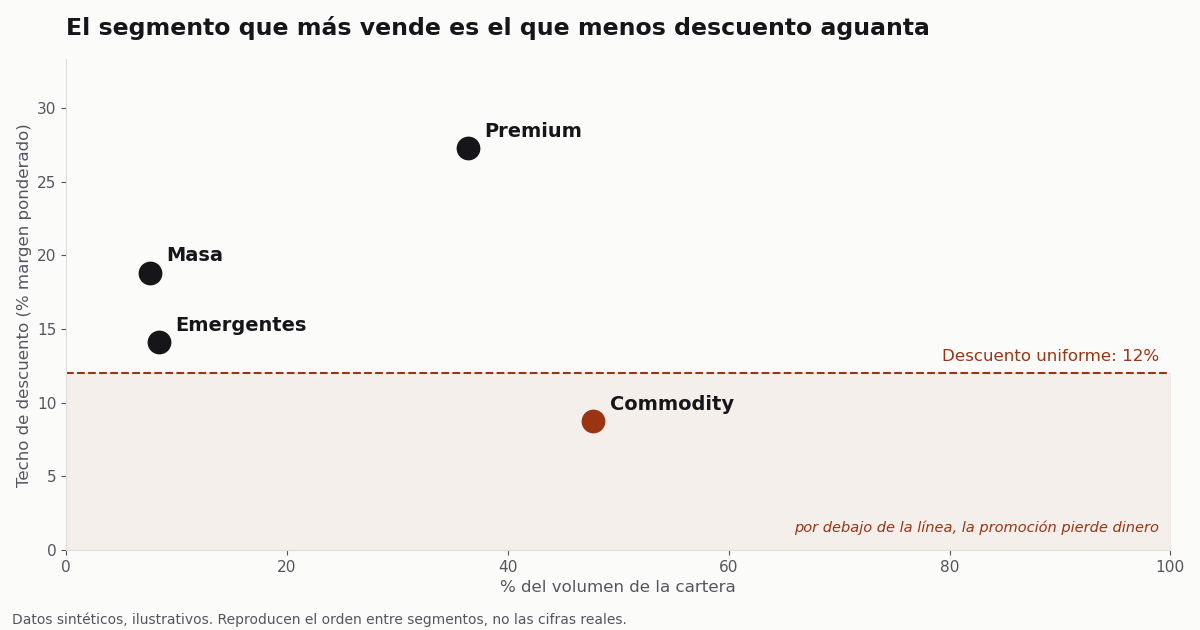
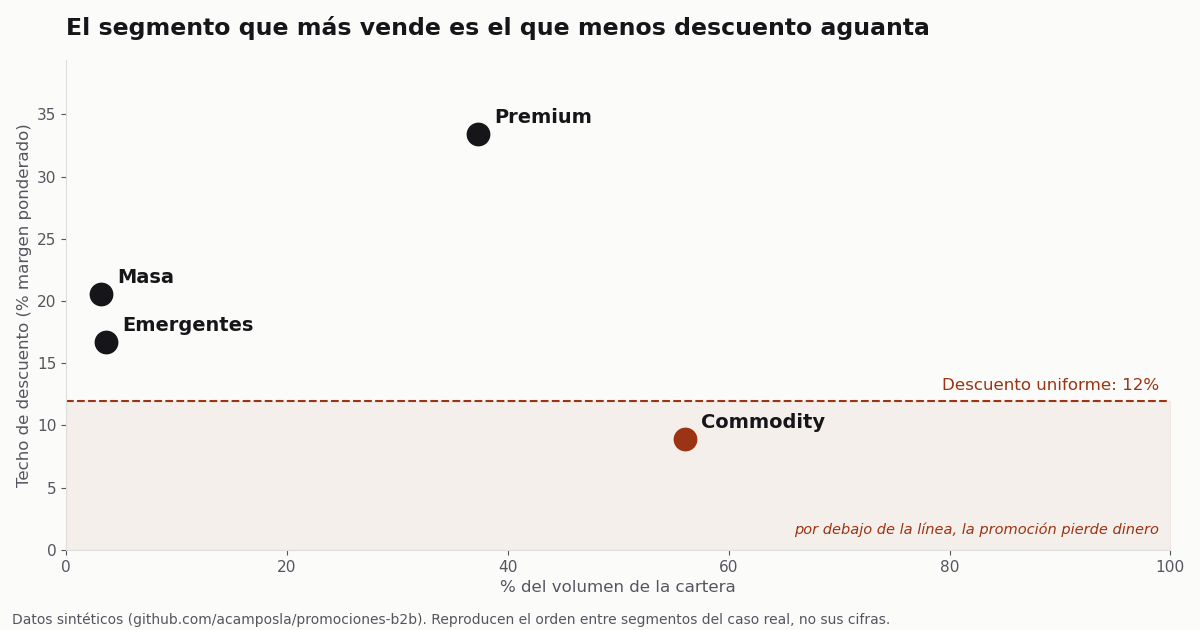
Pieza del TFM: simulador del rappel con datos sintéticos y enlace al código
El simulador y la figura salen del repo público acamposla/promociones-b2b.

diff --git a/_includes/simulador-rappel.html b/_includes/simulador-rappel.html
@@ -1,0 +1,92 @@
+<!-- Generado por promociones-b2b/scripts/simulador_web.py. No editar a mano. -->
+<figure class="simulador" id="simulador-rappel">
+<style>
+#simulador-rappel{--s-tinta:var(--tinta,#16161a);--s-suave:var(--tinta-suave,#55555f);
+--s-fondo:var(--fondo-sutil,#f1f1ec);--s-linea:var(--linea,#dededa);--s-acento:var(--acento,#9a3412);
+--s-ok:#2f6f73;font-family:var(--sans,system-ui,sans-serif);line-height:1.35;margin:2rem 0;padding:1.25rem;
+background:var(--s-fondo);border:1px solid var(--s-linea);border-radius:10px;color:var(--s-tinta)}
+#simulador-rappel .fila{display:flex;flex-wrap:wrap;gap:.75rem 1.5rem;margin-bottom:1rem}
+#simulador-rappel label{font-size:.85rem;color:var(--s-suave);display:flex;flex-direction:column;gap:.3rem;flex:1 1 9rem}
+#simulador-rappel select{font:inherit;font-size:.95rem;padding:.35rem .4rem;border:1px solid var(--s-linea);
+border-radius:6px;background:transparent;color:var(--s-tinta)}
+#simulador-rappel input[type=range]{width:100%;accent-color:var(--s-acento)}
+#simulador-rappel .valor{font-variant-numeric:tabular-nums;color:var(--s-tinta);font-weight:600}
+#simulador-rappel .kpis{display:grid;grid-template-columns:repeat(auto-fit,minmax(8.5rem,1fr));gap:.75rem;margin-top:.5rem}
+#simulador-rappel .kpi{border-top:2px solid var(--s-linea);padding-top:.5rem}
+#simulador-rappel .kpi b{display:block;font-size:1.35rem;font-variant-numeric:tabular-nums}
+#simulador-rappel .kpi span{font-size:.8rem;color:var(--s-suave)}
+#simulador-rappel .estado.pierde b{color:var(--s-acento)}
+#simulador-rappel .estado.gana b{color:var(--s-ok)}
+#simulador-rappel .barra{position:relative;height:10px;background:var(--s-linea);border-radius:5px;margin:1.1rem 0 .3rem}
+#simulador-rappel .barra i{position:absolute;top:-4px;width:2px;height:18px;background:var(--s-tinta)}
+#simulador-rappel .barra i.d{background:var(--s-acento)}
+#simulador-rappel .leyenda{font-size:.8rem;color:var(--s-suave)}
+#simulador-rappel figcaption{font-size:.8rem;color:var(--s-suave);margin-top:1rem}
+</style>
+<div class="fila">
+  <label>Grupo<select data-k="seg"><option value="-1">Todos</option></select></label>
+  <label>Cuartil de volumen<select data-k="cua"><option value="0">Todos</option>
+    <option value="1">Q1, los más pequeños</option><option value="2">Q2</option>
+    <option value="3">Q3</option><option value="4">Q4, los más grandes</option></select></label>
+</div>
+<div class="fila">
+  <label>Crecimiento exigido <span class="valor" data-v="u"></span>
+    <input type="range" data-k="u" min="1" max="20" step="1" value="6"></label>
+  <label>Descuento sobre lo que crece <span class="valor" data-v="d"></span>
+    <input type="range" data-k="d" min="1" max="40" step="1" value="8"></label>
+  <label>Clientes que aceptan y cumplen <span class="valor" data-v="r"></span>
+    <input type="range" data-k="r" min="5" max="100" step="5" value="25"></label>
+</div>
+<div class="kpis">
+  <div class="kpi estado"><b data-o="neto"></b><span>neto de la promoción</span></div>
+  <div class="kpi"><b data-o="techo"></b><span>techo de descuento</span></div>
+  <div class="kpi"><b data-o="holgura"></b><span>holgura frente al techo</span></div>
+  <div class="kpi"><b data-o="agua"></b><span>clientes con margen por debajo del descuento</span></div>
+  <div class="kpi"><b data-o="n"></b><span>clientes en la selección</span></div>
+</div>
+<div class="barra" aria-hidden="true"><i class="t"></i><i class="d"></i></div>
+<p class="leyenda">Línea negra: techo del grupo. Línea de color: descuento elegido. Escala de 0 a 50 %.</p>
+<figcaption>Datos sintéticos del repositorio
+<a href="https://github.com/acamposla/promociones-b2b">promociones-b2b</a>. Neto = aceptación ×
+crecimiento × volumen × (techo − descuento).</figcaption>
+</figure>
+<script>
+(function () {
+  var fig = document.getElementById('simulador-rappel');
+  if (!fig) return;
+  var D = {"segmentos":["Premium","Commodity","Emergentes","Masa"],"clientes":[[1,1,49416,0.1531],[1,3,321331,0.0323],[1,3,237192,0.0999],[1,3,309293,0.1042],[1,3,278703,0.0332],[1,1,44901,0.1186],[2,4,143127,0.0386],[1,1,18426,-0.0098],[3,2,9660,0.0784],[1,4,541969,0.0937],[1,4,1398534,0.0938],[1,4,472529,0.0944],[1,4,3555998,0.1105],[1,2,106777,0.0191],[1,3,326350,0.073],[1,3,199228,-0.0142],[1,3,198326,0.0719],[1,3,202857,0.1022],[1,4,3021731,0.1368],[1,4,1307405,0.0544],[1,4,1003870,0.0479],[1,2,90303,0.0659],[3,4,49033,0.0921],[1,1,52169,0.1194],[1,1,59868,0.0878],[1,4,494837,0.0426],[1,2,136309,0.0504],[1,4,573483,0.086],[1,4,704027,0.0357],[2,4,332027,0.158],[1,1,24470,0.0905],[1,4,1427331,0.0796],[1,4,419695,0.029],[2,1,10256,0.0779],[3,4,31430,0.0794],[1,3,341482,0.0577],[1,3,156954,0.0739],[2,4,548725,0.0647],[2,3,71152,0.1359],[1,2,85652,0.1075],[1,3,158704,0.0971],[1,4,459270,0.0678],[1,4,589026,0.1274],[3,4,22556,0.0684],[1,2,105063,0.0361],[1,1,40695,0.1046],[1,2,80351,0.1379],[1,3,244602,0.1015],[3,2,6348,0.0468],[1,3,168771,0.0319],[1,3,316999,0.1085],[1,4,946196,0.067],[1,2,135345,0.0589],[1,1,37817,0.0108],[1,3,149158,0.1588],[1,3,144314,0.0306],[1,4,1379425,0.1474],[1,2,139709,0.0485],[1,3,208416,0.1501],[1,4,436554,0.0882],[1,3,325155,0.0258],[1,2,106331,0.0059],[1,4,516805,0.0737],[1,1,49001,0.0805],[1,3,330126,0.1216],[1,2,104854,0.0623],[1,3,216290,0.083],[1,3,297388,0.0395],[1,3,182209,-0.0034],[3,3,15207,0.094],[1,3,282977,0.0962],[3,4,39985,0.116],[1,2,124769,0.077],[1,4,652388,0.0657],[3,3,15608,0.0727],[1,4,445150,0.0026],[1,1,45999,0.0877],[1,1,27539,0.0452],[1,4,1060647,0.0331],[1,4,2168974,0.0923],[1,4,2385729,0.067],[1,3,270390,0.1518],[1,2,87400,0.0588],[2,2,23056,0.0998],[1,1,44796,0.1054],[1,3,186685,0.0184],[3,3,15739,0.0657],[1,4,1214517,0.159],[1,1,33846,0.0259],[1,2,97529,0.1873],[1,2,85586,0.087],[2,4,298827,0.1081],[1,4,875347,0.0587],[1,3,263127,0.1289],[1,2,68261,0.0684],[1,4,2251467,0.1308],[1,4,3253908,0.1501],[1,3,277085,0.0996],[1,3,196090,0.1331],[1,1,44885,0.02],[1,3,283051,0.0584],[3,4,20643,0.1332],[1,3,197824,0.0388],[1,4,766030,-0.0264],[1,1,41953,0.1319],[1,1,53995,0.0275],[1,4,2513177,0.0205],[1,3,171799,0.0364],[1,3,340418,0.1046],[3,2,9947,0.2036],[1,2,127395,0.1191],[1,4,512975,0.0221],[1,2,79924,0.0991],[1,3,210522,0.0472],[1,1,49674,0.0861],[1,4,672813,0.0563],[1,4,1156959,0.0564],[1,3,200802,0.087],[1,3,347982,0.1074],[1,1,36719,0.0881],[1,3,150458,0.0435],[1,4,1534228,0.0107],[1,1,51713,0.1004],[1,1,40439,0.1264],[1,1,40001,0.0105],[3,4,32657,0.0989],[3,2,8459,0.1681],[1,3,155615,0.1636],[1,3,262821,0.0857],[1,3,164229,0.1068],[1,2,95122,0.0318],[1,3,147858,0.1089],[1,4,381657,0.1929],[3,4,32576,0.1487],[1,4,936623,-0.0653],[1,1,40458,0.1319],[1,2,66369,-0.0179],[1,4,426955,0.0931],[3,2,6996,0.0497],[1,3,225856,0.1062],[1,2,65186,0.1212],[1,1,42505,0.055],[3,2,6179,0.0516],[1,3,279481,0.0345],[3,3,12075,0.1271],[1,2,75219,0.1521],[1,2,128867,0.1133],[3,4,35851,0.1196],[1,1,43678,0.0318],[1,4,723500,0.0542],[3,1,3955,0.0429],[1,1,34161,0.0176],[1,2,125763,0.1271],[3,3,12865,0.1039],[1,2,97634,0.1763],[2,3,73286,0.1458],[1,3,215756,0.0264],[1,4,1259318,0.0945],[1,4,1003997,0.0674],[1,4,1423059,0.0698],[1,3,167451,0.0639],[1,3,318523,0.12],[1,2,83131,0.0769],[1,3,190690,0.0683],[1,4,1860204,0.1027],[3,4,38772,0.0822],[1,3,162824,0.0306],[3,3,10757,-0.0259],[1,4,1333964,0.1297],[1,3,262151,0.0203],[3,4,21976,0.117],[1,4,495159,0.193],[1,4,1536337,0.0731],[1,3,270071,0.0859],[1,2,95432,0.078],[1,1,42800,0.0355],[1,4,668746,0.0045],[3,4,31498,0.072],[1,3,263785,0.0744],[1,1,37330,0.0619],[1,2,95849,0.0899],[1,3,146030,-0.0019],[1,2,132702,0.156],[1,2,99055,0.0441],[1,1,42077,0.1751],[1,2,65757,0.1326],[1,3,161680,0.1331],[1,2,68623,0.0826],[3,4,20531,0.095],[1,4,1931398,0.0091],[1,4,494297,0.1255],[1,4,924530,0.0725],[1,2,69908,0.1341],[1,2,65894,0.1007],[3,3,16538,0.126],[3,3,13836,0.0729],[1,4,624512,0.0499],[1,3,163321,0.0745],[1,3,339137,0.0305],[1,3,224358,0.1054],[1,4,1069993,0.0635],[3,3,17278,0.0877],[1,4,429718,0.045],[1,4,482576,0.0297],[1,2,109928,0.1055],[1,3,300117,0.1069],[1,3,257729,0.183],[1,2,129122,0.1368],[1,2,138653,0.0137],[1,2,101307,0.0744],[3,1,4467,0.0827],[1,3,158904,0.1241],[1,4,1336614,0.1453],[1,2,119204,0.1257],[1,2,110796,0.0473],[1,2,101767,0.0649],[2,4,97059,0.1479],[3,3,17589,0.0402],[1,4,529960,0.091],[2,4,169869,0.0697],[1,4,417951,0.0895],[1,3,267565,0.1252],[1,1,39933,0.0624],[1,4,966013,0.0304],[1,3,181989,0.1215],[3,1,4602,0.0946],[1,4,481366,0.1238],[1,3,206866,0.1717],[1,4,706422,0.1067],[1,1,57801,0.0771],[3,4,19154,0.1304],[1,1,46139,0.0835],[1,3,247222,0.1614],[1,1,56581,0.0889],[1,4,855311,0.0847],[2,4,113644,0.0969],[3,3,13014,0.1333],[1,2,97384,0.0809],[3,2,9077,0.089],[1,3,180176,0.0429],[3,4,24023,-0.0021],[1,2,64208,0.0754],[1,3,290665,0.1537],[1,4,593374,0.032],[1,4,449007,0.1193],[1,4,570076,0.0522],[1,2,87362,0.0195],[1,4,6008144,0.0804],[1,2,124130,0.1902],[1,3,264283,0.0843],[2,4,351735,0.0986],[1,3,224443,0.0638],[3,3,17593,0.022],[1,4,457236,0.0768],[1,3,223949,0.1541],[1,4,1659251,0.0602],[1,3,246888,0.084],[1,3,143625,0.0609],[1,3,353400,0.1509],[1,3,221438,0.0667],[1,1,39304,0.0719],[1,4,534173,0.0568],[1,1,46637,0.0753],[1,4,986189,0.0234],[1,2,95506,0.0866],[1,4,3301006,0.1213],[1,4,410656,0.1729],[1,2,63323,0.0271],[3,4,19482,0.0848],[1,2,123160,0.1062],[1,2,73964,0.0739],[1,3,180590,0.1026],[1,4,3411254,0.1463],[1,2,95580,0.0291],[1,3,216010,0.0253],[2,4,173628,0.1407],[1,3,335570,0.1565],[1,3,213522,0.0551],[1,3,198510,0.0136],[2,3,48438,0.071],[0,4,1454376,0.2432],[1,4,551676,0.087],[1,1,26313,-0.0074],[1,1,51611,0.1284],[1,2,61947,0.1075],[1,4,416486,0.1231],[1,4,750557,0.1101],[1,4,1911751,0.1201],[1,4,996469,0.0778],[1,4,1596808,0.0991],[1,2,89057,-0.0543],[1,2,79830,0.0482],[1,4,1620823,0.0811],[1,2,75966,0.0624],[1,3,158820,0.1333],[1,1,43569,0.1403],[1,2,133256,0.094],[1,3,188496,-0.0204],[1,4,1508486,0.0401],[1,1,52147,0.0962],[1,1,47688,0.0799],[1,4,707763,0.1172],[1,4,2908119,0.0056],[1,1,46465,0.05],[1,4,877339,0.1106],[1,2,129463,0.0547],[1,2,82776,0.1051],[1,3,286535,0.0663],[1,4,1717129,0.0071],[1,2,108413,0.0622],[1,4,404980,0.0613],[1,4,502138,0.1454],[1,1,49532,0.0073],[1,2,125499,0.0235],[1,1,60869,0.0895],[3,4,44499,0.0821],[1,3,255434,0.1292],[1,2,85210,0.0294],[1,4,941851,0.1164],[1,3,157418,0.1205],[1,1,50674,0.0471],[1,3,189694,0.1701],[1,4,1224669,0.0572],[1,2,114849,0.142],[1,4,467095,0.0583],[1,4,1339753,0.0175],[1,3,291956,0.1142],[1,4,1157504,0.1185],[1,2,86524,0.0207],[1,1,52308,0.0516],[1,3,337720,0.0854],[1,3,190413,0.0127],[1,1,38285,0.1172],[3,2,9492,0.0327],[1,2,73954,0.0995],[1,1,58182,0.1116],[1,1,34581,0.0305],[1,4,532606,0.1287],[1,3,154345,0.0774],[3,1,3321,0.1409],[1,4,663829,0.0542],[3,4,25912,0.1597],[1,3,284628,0.0306],[1,4,549442,0.0346],[1,1,39977,0.16],[0,4,789193,0.4091],[0,3,439485,0.2706],[0,3,424029,0.3147],[0,1,88706,0.2233],[0,1,47887,0.2044],[0,4,622428,0.2626],[0,3,574690,0.3628],[0,2,178229,0.3165],[0,2,316134,0.2243],[0,4,800407,0.3478],[0,1,91926,0.2857],[0,1,126239,0.5417],[0,4,689968,0.4285],[0,1,117073,0.3674],[0,2,205497,0.3808],[0,1,91224,0.4292],[0,1,107792,0.3422],[1,4,691961,0.1966],[0,1,103560,0.2894],[0,3,370008,0.2521],[0,4,1301067,0.326],[0,1,125936,0.2018],[0,3,609629,0.3745],[0,4,838264,0.4095],[0,1,98597,0.3068],[0,2,310990,0.2778],[0,4,642589,0.3373],[0,4,713825,0.2877],[0,2,249315,0.197],[0,3,433370,0.3418],[0,2,273043,0.3761],[0,3,495343,0.42],[0,3,376689,0.1955],[0,1,117653,0.4186],[0,1,150955,0.4148],[0,2,271204,0.3374],[0,2,287690,0.4467],[0,4,3004440,0.2322],[0,3,437578,0.4151],[0,1,126145,0.3158],[0,3,377267,0.1557],[0,3,495208,0.3167],[0,2,187348,0.4221],[0,3,587493,0.3065],[0,1,42993,0.363],[1,4,438327,0.1545],[0,4,794067,0.2145],[0,1,91033,0.4004],[0,2,281894,0.3194],[0,1,61766,0.3626],[0,3,366917,0.3063],[1,4,1198448,0.2036],[0,2,239886,0.5594],[0,3,517554,0.2724],[0,2,192992,0.3374],[0,1,43414,0.2582],[0,2,259404,0.3697],[0,1,148731,0.2664],[0,3,345344,0.281],[0,4,1088931,0.4027],[0,3,486241,0.1706],[0,3,616369,0.3383],[0,2,241125,0.3938],[0,2,230130,0.3549],[0,2,202269,0.3587],[0,1,98169,0.2186],[0,3,362749,0.2657],[0,3,450404,0.2586],[0,4,2040294,0.2803],[0,3,495659,0.2989],[1,3,169753,0.1843],[0,1,75557,0.3515],[0,1,63272,0.3523],[0,4,757351,0.3184],[0,2,176609,0.4111],[0,2,296648,0.3015],[0,4,791086,0.3646],[3,4,42294,0.2806],[0,1,109439,0.2943],[0,4,2105852,0.485],[0,3,441553,0.3578],[0,3,436544,0.2996],[0,4,1672767,0.3761],[0,4,770816,0.3887],[0,2,231369,0.3403],[0,2,309583,0.2112],[0,2,197279,0.383],[0,2,194884,0.1707],[0,4,693422,0.3523],[0,1,149902,0.3311],[0,4,1669465,0.4526],[0,3,335317,0.1064],[0,2,235758,0.2553],[0,3,540845,0.29],[0,1,109661,0.4366],[0,4,1010269,0.373],[0,4,947268,0.3931],[0,3,578901,0.4121],[0,4,895701,0.325],[0,3,436386,0.2418],[0,4,2061136,0.5236],[0,3,475597,0.2501],[0,3,371379,0.1895],[0,4,1630649,0.2696],[0,3,407889,0.3314],[0,3,548495,0.1362],[0,2,317632,0.3552],[0,1,133445,0.3587],[1,3,144461,0.0928],[0,4,1112282,0.2945],[0,2,276664,0.2917],[0,2,206833,0.3268],[0,2,223335,0.472],[0,4,846242,0.2776],[0,4,1296091,0.3386],[0,3,505966,0.1925],[0,1,83643,0.2157],[0,2,274512,0.4505],[0,2,221025,0.2825],[0,2,181575,0.4474],[0,4,3213555,0.3091],[0,2,242619,0.3938],[0,3,524339,0.3179],[0,1,63569,0.406],[0,2,292201,0.444],[0,3,342585,0.3975],[0,4,2511143,0.4082],[0,3,448822,0.2727],[0,3,522087,0.2614],[0,3,424090,0.244],[0,4,799147,0.3168],[0,2,242180,0.3416],[0,2,206167,0.2219],[0,4,795292,0.1777],[0,3,546790,0.3449],[0,4,776548,0.3802],[0,3,368396,0.3219],[0,2,178667,0.259],[0,4,1225994,0.4016],[0,1,127161,0.3899],[0,1,143693,0.38],[0,2,262510,0.3026],[0,1,106309,0.3309],[0,4,926507,0.335],[0,4,1403312,0.3695],[0,3,568255,0.3183],[0,2,283519,0.2489],[0,3,375048,0.4474],[1,3,242957,0.1017],[0,1,102976,0.3247],[0,1,89889,0.3365],[0,1,134313,0.3251],[0,4,855271,0.3592],[0,2,301116,0.4125],[0,1,104424,0.3733],[0,4,1294082,0.3351],[0,2,228744,0.2922],[0,4,778703,0.3636],[0,4,2206576,0.3488],[0,3,318827,0.3463],[0,2,244097,0.4052],[0,1,139039,0.2691],[0,1,110109,0.4399],[0,3,397827,0.2308],[0,2,236629,0.2541],[0,1,84809,0.2535],[0,2,210830,0.3892],[0,4,1160865,0.3174],[0,1,137954,0.2731],[0,3,362266,0.342],[0,4,4646714,0.3634],[0,2,237140,0.3633],[0,2,239398,0.371],[0,2,309228,0.2605],[0,1,78911,0.413],[1,4,863267,0.1439],[0,4,876618,0.23],[0,1,146594,0.2847],[0,4,706355,0.3658],[0,1,119585,0.1714],[0,3,465851,0.2943],[0,1,42492,0.3482],[0,1,51402,0.2476],[0,2,263276,0.3672],[0,1,167620,0.358],[0,4,1137414,0.2752],[0,3,515990,0.3636],[0,3,383502,0.3162],[0,4,2011770,0.3581],[0,1,126239,0.243],[2,4,190302,0.1269],[2,2,19965,0.1474],[2,1,10398,0.2145],[2,2,20840,0.1441],[2,3,71793,0.3433],[1,2,90616,0.1694],[1,1,50122,0.1114],[1,3,178557,0.1767],[2,4,120383,0.0158],[2,1,5588,0.0962],[2,3,78092,0.238],[2,2,23184,0.2132],[1,1,36742,0.0832],[2,3,31890,0.1763],[2,3,78521,0.177],[2,2,20749,0.2716],[2,3,37054,0.1233],[2,4,122414,0.1662],[2,4,112173,0.1463],[2,4,143154,0.1681],[2,2,20918,0.2138],[2,4,307091,0.101],[2,3,46047,0.0641],[1,4,416599,0.1411],[3,3,10980,0.1951],[1,2,83049,0.1679],[2,3,53531,0.2766],[2,4,136495,0.0682],[2,3,73211,0.1404],[2,4,257426,0.1959],[2,4,80195,0.2776],[2,3,41653,0.0662],[2,4,1244808,0.2753],[2,4,84025,0.1277],[1,2,70006,0.1119],[2,1,14923,0.1269],[2,4,282984,0.1387],[1,2,97026,0.0766],[2,4,406015,0.1647],[3,3,12084,0.1445],[2,4,93355,0.0189],[2,4,100447,0.1689],[2,4,139430,0.2076],[2,3,72736,0.106],[2,3,40758,0.2303],[2,3,46458,0.2372],[3,3,18352,0.1923],[3,4,31617,0.1483],[3,3,12622,0.1884],[3,4,24368,0.1278],[2,4,130095,0.2303],[2,4,89705,0.1454],[3,4,26937,0.225],[1,3,284123,0.2409],[2,3,44138,0.2218],[1,1,38439,0.1099],[3,4,28073,0.1591],[2,1,6515,0.2025],[2,2,24182,0.1465],[1,2,102770,0.1091],[3,4,22218,0.272],[2,1,9036,0.1614],[1,2,65886,0.1349],[1,3,161485,0.2069],[2,2,22911,0.27],[1,2,125068,0.1142],[1,2,128135,0.1912],[3,4,44268,0.1975],[1,3,179414,0.2699],[1,1,54255,0.0986],[2,3,30653,0.185],[2,2,22170,0.2043],[2,3,46079,0.165],[2,3,48985,0.2051],[2,3,45630,0.0918],[2,2,19357,0.1578],[3,4,36318,0.2282],[2,3,36786,0.2071],[3,4,36322,0.1869],[2,2,17205,0.25],[1,2,79554,0.0723],[2,2,22770,0.1839],[2,4,102201,0.1653],[1,1,52504,0.0876],[1,1,55616,0.1109],[2,4,209045,0.1102],[2,4,88280,0.2297],[2,3,29932,0.1158],[2,2,18470,0.2546],[1,2,80247,0.0955],[2,1,13605,0.2003],[3,4,32594,0.1854],[1,2,84909,0.1652],[3,4,30971,0.1139],[2,1,4344,0.2002],[2,2,17691,0.2609],[2,2,27746,0.2846],[2,3,33810,0.1677],[2,2,26070,0.1419],[2,1,6742,0.1447],[3,3,10884,0.1647],[3,1,2574,0.2863],[1,1,19092,-0.0274],[3,2,6728,0.1071],[3,3,15112,0.0966],[2,1,6147,0.1486],[3,2,8069,0.2419],[3,1,3974,0.2055],[3,3,14488,0.1688],[3,4,25920,0.1893],[3,1,2180,0.0909],[3,2,5252,0.1105],[3,3,12945,0.2992],[1,1,23220,0.0057],[1,1,34425,0.1952],[3,2,8090,0.198],[3,3,14600,0.176],[3,2,8537,0.1675],[3,3,10696,0.3219],[2,3,55011,0.3894],[3,2,8662,0.0982],[2,2,17249,0.0727],[1,2,116197,0.2433],[3,4,32109,0.0754],[3,1,2925,0.228],[3,2,6978,0.2794],[1,1,39166,0.1791],[3,3,11027,0.0683],[3,2,6389,0.2231],[3,2,7830,0.473],[1,3,162178,0.1653],[3,3,10861,0.1096],[3,3,12208,0.197],[3,2,7603,0.1591],[2,3,51034,0.1429],[3,1,987,0.2696],[3,2,8627,0.1928],[3,3,14718,0.202],[3,3,14191,0.1165],[3,1,1135,0.2525],[3,3,17734,0.2853],[3,1,4059,0.2087],[3,4,36521,0.3537],[3,1,896,0.1832],[3,4,21937,0.1027],[2,2,18972,0.3236],[1,1,32327,0.1173],[3,4,20702,0.1266],[3,1,4509,0.2436],[1,1,59017,0.2846],[2,1,6757,0.3194],[3,1,4430,0.1534],[3,2,5972,0.1503],[3,4,28838,0.2462],[3,2,8517,0.3077],[3,1,2957,0.049],[3,2,6760,0.128],[1,2,96728,0.2317],[3,3,11446,0.1016],[3,2,10384,0.2179],[3,2,5918,0.0337],[3,4,26413,0.3005],[3,3,12067,0.0905],[2,1,15011,0.2971],[3,4,47178,0.1723],[3,3,10479,0.263],[3,4,31673,0.3527],[2,1,6694,0.1355],[3,2,7974,0.0861],[3,4,29605,0.2327],[3,4,19342,0.1962],[2,1,5657,0.4011],[3,3,18072,0.0784],[3,3,12387,0.0971],[3,2,5263,0.0648],[3,3,11239,0.0778],[3,4,21765,0.1375],[3,2,6574,0.1914],[3,2,5902,0.3433],[3,4,23351,0.1863],[3,1,2613,0.3321],[3,1,1845,0.2122],[3,3,18410,0.2675],[3,2,5407,0.061],[3,3,16165,0.1173],[3,4,23789,0.0955],[3,3,13883,0.1464],[3,4,48790,0.3253],[3,1,4527,0.1514],[3,1,4674,0.1818],[3,3,13488,0.1757],[3,1,487,0.2824],[2,1,13983,0.0596],[1,1,48032,0.2253],[3,3,13166,0.2356],[1,1,51856,0.0084],[3,1,1044,0.0921],[3,4,30975,0.2425],[3,1,4590,0.2463],[3,3,14001,0.3032],[1,1,55891,0.0908],[3,2,5854,0.2703],[3,1,2070,0.2051],[3,2,8968,0.3075],[3,2,5272,0.3079],[3,4,29454,0.1032],[3,3,13772,0.254],[3,1,3481,0.1608],[3,3,17078,0.1218],[3,2,8331,0.2539],[3,1,277,0.2326],[3,1,3213,0.3818],[3,4,55096,0.239],[2,2,25534,0.1687],[3,2,10396,0.2728],[3,2,8427,0.2802],[3,2,7302,0.0935],[3,4,28605,0.1749],[2,1,3800,0.1644],[2,1,12210,0.2986],[2,1,11433,0.231],[3,1,2144,0.1581],[3,2,6131,0.3001],[3,4,33590,0.254],[3,4,38436,0.2563],[3,4,23743,0.1493],[1,1,60676,0.2652],[3,2,5842,0.1387],[3,1,2867,0.0122],[3,4,42436,0.2833],[3,3,11625,0.2498],[1,2,72255,0.2009],[3,1,3436,0.251],[1,2,79863,0.3466],[3,4,25558,0.1669],[1,2,121986,0.0081],[2,1,15014,0.2246],[3,2,6074,0.415],[3,2,7502,0.3144],[3,3,15570,0.0789],[3,1,989,0.1771],[3,4,26706,0.3277],[3,2,7449,0.0873],[3,2,5089,0.17],[3,2,6638,0.1951],[3,4,67887,0.2214],[3,1,2892,0.1917],[3,1,1656,0.2103],[3,4,43713,0.1256],[3,1,2836,0.1177],[3,4,24108,0.2568],[3,4,23955,0.3157],[3,3,13986,0.1838],[3,3,16300,0.0701],[3,3,13401,0.1097],[3,1,1693,0.4176],[3,2,7978,0.4643],[3,1,4162,0.2352],[3,2,7569,0.1912],[3,2,6543,0.0733],[3,3,14359,0.33],[1,2,96728,0.1047],[3,3,16969,0.2046],[3,1,3967,0.2336],[3,3,13522,0.1987],[3,4,42445,0.3171],[3,1,2548,0.1521],[1,1,58114,0.1307],[3,3,15119,0.1923],[3,4,33532,0.0898],[2,2,16811,0.1612],[3,2,7693,0.3235],[3,3,13503,0.1452],[3,3,10781,0.089],[3,2,4978,0.1615],[3,2,10198,0.2044],[3,3,14364,0.2774],[3,4,20234,0.2877],[3,3,18218,0.1999],[1,1,43218,0.1168],[3,1,2083,0.2622],[3,3,11703,0.0809],[3,1,2461,0.0166],[1,1,52560,0.1086],[3,3,17921,0.1946],[3,3,12189,0.3493],[1,2,112302,0.1612],[3,4,24918,0.2023],[3,2,9263,0.1806],[2,2,26094,0.0803],[3,2,8736,0.2375],[3,3,10508,0.2479],[3,2,8665,0.1493],[3,1,578,0.2678],[3,1,4046,0.3706],[1,2,72196,0.2222],[3,2,9140,0.2558],[3,4,18746,0.2209],[3,1,2766,0.2186],[3,3,14905,0.1799],[3,3,13536,0.155],[3,4,73387,0.4106],[1,4,613509,0.1253],[1,2,73152,0.2232],[3,2,5030,0.1174],[3,4,20737,0.1849],[2,2,20921,0.1014],[1,2,79735,0.2495],[3,3,16248,0.3079],[3,4,21493,0.3557],[3,3,17914,0.1182],[3,3,16430,0.2692],[1,1,21177,-0.0483],[3,4,44925,0.1125],[1,3,144720,0.195],[3,3,14487,0.2139],[3,3,16336,0.4223],[3,1,4079,0.0937],[3,4,55488,0.1653],[3,4,26845,0.1092],[3,3,10691,0.2847],[3,3,13236,0.3493],[3,1,4047,0.3081],[3,2,5244,0.319],[3,2,6033,0.3215],[3,4,26597,0.3117],[1,1,42711,0.1877],[3,4,38185,0.1669],[3,1,2760,0.1957],[3,3,18480,0.1923],[1,1,36584,0.083],[3,4,20958,-0.0268],[3,4,27707,0.2354],[3,2,8406,0.1608],[3,2,7851,0.3805],[3,1,2790,0.2434],[3,2,6036,0.3396],[3,4,36076,0.2197],[3,4,28179,0.1474],[3,1,2024,0.2202],[3,1,2901,-0.0164],[1,2,62396,0.2468],[3,2,7840,0.1738],[2,2,15572,0.2664],[3,4,36518,0.1617],[3,1,3232,0.1241],[3,4,21142,0.3],[3,4,24049,0.0735],[1,1,41524,0.0137],[3,4,28607,0.327],[3,4,21596,0.3374],[3,2,9699,0.1091],[3,4,32083,0.0675],[3,3,11099,0.4095],[1,1,32822,0.0477],[3,3,11975,0.1352],[3,2,7158,0.094],[1,1,57341,0.2092],[3,1,2026,0.0755],[3,2,10137,0.4027],[1,1,51213,0.1766],[3,3,12451,0.1224],[3,3,10467,0.2528],[3,4,20495,0.2025],[3,2,7584,0.1069],[3,3,18078,0.0765],[3,4,19847,0.1988],[1,1,12918,-0.0864],[3,3,18204,0.2356],[3,3,12364,0.2487],[3,1,2413,0.1442],[3,4,65182,0.2123],[3,1,3134,0.158],[3,1,1763,0.1966],[3,2,9460,0.2501],[3,1,1722,0.0964],[1,1,35728,0.0788],[3,1,2565,-0.0066],[3,3,15045,-0.0024],[3,1,3648,0.2389],[1,1,59954,0.2113],[3,2,9655,0.1266],[3,4,35181,0.2139],[3,2,4832,0.2585],[3,2,6787,0.1572],[2,3,29386,0.1705],[1,3,205182,0.1876],[3,1,3411,0.2053],[3,2,9861,0.2542],[1,1,38905,0.1968],[3,3,14732,0.2962],[3,3,12247,0.2451],[3,3,11310,0.1633],[3,2,5371,0.2993],[3,1,3005,0.2777],[3,1,3611,0.1999],[3,4,20676,0.1958],[3,2,8732,0.1592],[3,3,10858,0.2611],[3,1,4010,0.2674],[2,1,4326,0.3227],[3,1,3366,0.1966],[3,2,8375,0.3135],[3,2,7095,0.0801],[3,3,12378,0.1549],[3,2,6078,0.1908],[3,1,3168,0.1437],[3,3,15514,0.1504],[3,1,3716,0.1613],[3,3,14105,0.1461],[3,3,12347,0.0495],[3,2,5055,0.2576],[3,4,25531,0.0888],[3,2,6282,0.1213],[3,2,7029,0.3395],[3,4,26315,0.1813],[3,2,6571,0.2293],[3,4,22290,0.207],[3,3,14219,0.2168],[3,1,3385,0.2314],[3,1,1310,0.1823],[3,1,3972,0.2239],[3,1,1273,0.0885],[3,1,2631,0.239],[3,3,14162,0.0559],[3,1,4702,0.2351],[3,4,31817,0.217],[3,2,7343,0.2528],[3,1,1756,0.2404],[1,1,45182,0.1563],[3,1,3851,0.145],[3,1,1316,0.1938],[3,4,24804,0.1239],[3,1,1682,0.0885],[3,3,16602,0.2848],[3,1,2619,0.135],[2,1,7993,0.2416],[1,2,123054,0.3255],[3,1,2825,0.3648],[3,4,23968,0.119],[3,2,5412,0.1325],[3,1,3670,0.1629],[3,2,9068,0.0331],[3,4,21219,0.1535],[3,2,6216,0.1892],[3,2,6623,0.2169],[3,1,4218,0.1652],[3,1,4681,0.0445],[1,1,29788,-0.034],[3,3,17825,0.2297],[3,4,34762,0.3068],[3,2,6111,0.1225],[3,3,12391,-0.0646],[1,1,40725,0.0581],[2,2,28928,0.2535],[1,2,83325,0.2979],[2,1,11670,0.2242],[3,4,35580,0.2123],[1,2,81988,0.185],[1,3,145259,0.0888],[2,2,19083,0.3139],[3,4,33020,0.1987],[3,2,9300,0.2987],[3,1,2133,0.3803],[3,4,48418,0.3165],[3,1,4434,0.1236],[3,3,14783,0.0581],[3,3,17140,0.2641],[3,2,5690,0.2702],[3,3,11688,0.4004],[3,2,5936,0.2621],[3,1,3316,0.0867],[3,1,1754,0.348],[3,2,5070,0.2385],[3,4,55235,0.235],[3,1,1762,0.2511],[3,3,15576,0.2196],[3,3,13809,0.2189],[3,2,4947,0.1031],[1,1,26687,0.0299],[3,1,2464,0.3104],[3,2,6213,0.1865],[2,1,8480,0.0279],[3,3,10888,0.0741],[3,4,27613,0.3831],[3,1,4260,0.2422],[3,3,12501,0.3547],[3,4,35019,0.0327],[2,1,4093,0.0831],[3,1,2932,0.1754],[3,1,621,0.1739],[3,1,1270,0.2647],[3,3,14183,0.2694],[3,1,825,0.1535],[3,4,32132,0.3235],[3,1,3817,0.1951],[3,1,2469,0.2688],[3,3,11095,0.2284],[3,1,2989,0.2194],[3,3,10885,0.2892],[3,3,11253,0.2501],[3,1,3592,0.1366],[3,2,5657,0.1102],[3,4,53058,0.2773],[3,1,3816,0.2594],[3,1,1150,0.2747],[3,4,34180,0.4356],[3,1,4012,0.0553],[3,4,21103,0.2182],[3,4,21824,0.1416],[1,2,98916,0.1904],[3,4,35917,0.4155],[3,1,3881,0.1795],[3,1,1555,0.0493],[3,2,6151,0.2674],[2,1,4755,0.1444],[3,3,15819,0.2813],[3,4,42795,0.2332],[2,1,11155,0.4389],[3,1,2417,0.2941],[3,2,10182,0.1626],[3,3,14530,0.1944],[3,4,40332,0.1612],[3,1,3705,0.3725],[1,1,46033,0.0588],[3,1,3885,0.3065],[3,1,2241,0.2193],[3,1,1632,0.3298],[3,1,4737,0.2974],[3,1,4208,0.2883],[3,4,24494,0.2902],[3,2,6526,0.2416],[2,1,11003,0.232],[1,1,55166,0.1084],[3,4,24276,0.267],[3,1,1590,0.2674],[3,3,16891,0.1207],[3,1,636,0.325],[3,1,2014,0.0957],[3,1,3301,0.148],[1,1,21665,0.0139],[3,4,30586,0.2772],[3,4,26189,0.1582],[1,2,65181,0.2449],[3,2,6291,0.3241],[1,4,382806,0.2493],[3,1,1824,0.2338],[1,1,36914,0.1634],[3,2,9985,0.2106],[3,1,2442,0.2159],[3,2,5293,0.1615],[3,1,2873,0.2966],[3,2,4933,0.051],[3,1,1800,0.2792],[3,4,121387,0.4517],[3,2,10340,0.2727],[3,3,11104,0.2338],[1,1,59339,0.2023],[3,1,3044,0.0747],[3,4,20530,0.1459],[3,1,4580,0.2699],[3,3,13525,0.3345],[3,1,4366,0.1007],[3,3,14080,0.0953],[3,3,14115,0.1785],[3,1,4352,0.1829],[1,1,39199,0.2275],[1,2,74370,0.291],[3,4,22741,0.2272],[3,1,4767,0.0438],[3,4,50524,0.2527],[3,2,9488,0.3257],[2,2,27480,0.2133],[1,1,43485,0.1539],[1,2,61429,0.1483],[3,1,2259,0.158],[3,4,18794,0.2114],[3,2,5480,0.066],[3,4,23375,0.2303],[3,3,13610,0.1462],[3,3,10474,0.1],[3,2,10214,0.304],[3,2,5065,0.0649],[3,4,23213,0.2592],[3,3,11003,0.1505],[3,1,2799,0.2429],[3,2,9823,0.0628],[2,1,3615,0.2398],[3,3,14549,0.2037],[3,4,41708,0.2787],[3,4,43527,0.2848],[3,2,6453,0.3337],[3,4,20226,0.1652],[3,3,14842,0.1367],[3,3,14371,0.0278],[3,3,13130,0.3285],[1,1,58768,0.1532],[3,4,26493,0.0835],[3,2,5012,0.4126],[3,1,4284,0.2138],[3,3,18714,0.2143],[3,4,29461,0.1121],[3,1,4092,0.2056],[3,2,8631,0.1803],[1,1,42102,0.1486],[3,1,3850,0.1766],[2,1,13450,0.1909],[3,1,4224,0.3497],[3,4,44958,0.1959],[3,3,18169,0.0566],[3,1,2436,0.326],[3,3,10507,0.5589],[3,1,2866,0.1986],[3,1,2993,0.2324],[3,3,11836,0.1904],[3,1,3700,0.0595],[3,3,12356,0.2965],[3,2,9730,0.2492],[3,4,33122,0.187],[2,3,29576,0.23],[1,2,75445,0.1445],[3,4,37137,0.2115],[2,2,20984,0.2006],[3,4,47350,0.2583],[3,4,32573,0.1828],[1,2,64566,0.1666],[3,1,2399,0.1688],[3,4,31721,0.2634],[3,3,11006,0.3382],[3,2,8048,0.3017],[3,4,28441,0.2933],[3,1,4401,0.218],[3,2,5765,0.1518],[2,2,20782,0.1814],[1,1,36913,0.0339],[1,2,87501,0.164],[3,2,9080,0.0057],[1,1,47083,0.1343],[3,3,14576,0.1486],[3,4,21241,0.186],[3,4,23423,0.074],[2,2,18339,0.2314],[3,4,26238,0.213],[3,2,7479,0.3306],[3,3,13127,0.3227],[3,1,3061,0.273],[3,3,10751,0.327],[3,2,8086,0.0953],[1,1,47766,0.1245],[3,2,8699,0.3445],[3,2,9125,0.2113],[3,2,8766,0.2448],[1,1,51800,0.201],[3,4,21276,0.2747],[3,2,7859,0.2504],[3,3,16318,0.3459],[3,1,3408,0.205],[3,2,10379,0.1529],[3,2,8295,0.2671],[2,3,44781,0.314],[3,3,10579,0.364],[3,4,30597,0.4067],[3,4,37624,0.132],[3,3,16628,0.175],[3,3,14347,0.3306],[3,1,2381,0.142],[2,3,75657,0.1867],[3,2,7836,0.1275],[3,2,5589,0.2178],[0,1,97389,0.4707],[3,2,8176,0.1923],[3,3,11168,0.1498],[3,3,18159,0.0642],[2,2,21621,0.3603],[3,2,6808,0.2169],[3,2,7090,0.2224],[2,1,6921,0.3573],[3,1,3958,0.2634],[3,1,3458,0.2593],[3,3,15162,0.2073],[3,2,8530,0.2497],[3,2,6096,0.1948],[2,3,77892,0.1665],[2,2,23965,0.2404],[3,4,32608,0.3255],[3,2,8902,0.1255],[3,2,7307,0.305],[3,4,51699,0.3472],[3,2,5989,0.2005],[1,1,58734,0.2068],[3,4,22581,0.2978],[3,2,7490,0.1511],[3,2,6251,0.2687],[3,2,9505,0.2559],[1,2,64363,0.1446],[3,3,17880,0.3636],[3,3,13833,0.3318],[3,2,8003,0.2905],[3,2,6112,0.332],[3,1,3065,0.3731],[1,2,108258,0.1726],[3,2,7918,0.2523],[3,1,2103,0.2612],[2,4,117352,0.2583],[3,1,4015,0.1996],[3,2,5489,0.3499],[3,3,11033,0.0099],[3,2,6242,0.4177],[3,4,22414,0.1014],[1,1,59594,0.162],[1,1,60305,0.1544],[2,1,8702,0.1561],[1,1,50611,0.0141],[3,2,6238,0.2815],[3,2,5973,0.3089],[3,3,13360,0.0908],[3,1,4201,0.2481],[3,3,13983,0.1851],[3,4,30140,0.1878],[3,3,17100,0.252],[3,3,13878,0.3418],[1,2,91362,0.2579],[3,1,1424,0.11],[3,3,18433,0.0646],[3,2,6492,0.1119],[3,3,12888,0.2442],[3,4,25036,0.1633],[3,1,4559,0.2141],[3,2,7378,0.2742],[3,1,2177,0.0479],[1,2,97968,0.0344],[3,4,19512,-0.0076],[3,1,1045,0.2096],[3,1,3850,0.174],[2,3,44821,0.3298],[3,1,4556,0.1852],[3,2,6924,0.1168],[3,3,11625,0.1667],[3,1,4548,0.3203],[3,2,5355,0.2774],[3,2,9853,0.0649],[3,3,16417,0.1958],[3,3,11636,0.1009],[3,2,10273,0.2666],[3,3,13000,0.2171],[3,4,25663,0.2],[3,3,14863,0.0791],[3,4,20004,0.1966],[3,4,26609,0.2463],[3,2,6539,0.2074]]};
+  var sel = fig.querySelector('[data-k=seg]');
+  D.segmentos.forEach(function (s, i) {
+    var o = document.createElement('option'); o.value = i; o.textContent = s; sel.appendChild(o);
+  });
+  sel.value = '1';
+  var eur = new Intl.NumberFormat('es-ES', {style: 'currency', currency: 'EUR', maximumFractionDigits: 0});
+  var pct = new Intl.NumberFormat('es-ES', {style: 'percent', maximumFractionDigits: 1});
+  function q(k) { return fig.querySelector('[data-k=' + k + ']'); }
+  function out(k, t) { fig.querySelector('[data-o=' + k + ']').textContent = t; }
+  function calc() {
+    var s = +q('seg').value, c = +q('cua').value;
+    var u = q('u').value / 100, d = q('d').value / 100, r = q('r').value / 100;
+    ['u', 'd', 'r'].forEach(function (k) {
+      fig.querySelector('[data-v=' + k + ']').textContent = q(k).value + ' %';
+    });
+    var V = 0, M = 0, n = 0, agua = 0;
+    D.clientes.forEach(function (f) {
+      if ((s < 0 || f[0] === s) && (c === 0 || f[1] === c)) {
+        V += f[2]; M += f[2] * f[3]; n += 1; if (f[3] < d) agua += 1;
+      }
+    });
+    var m = V ? M / V : 0, neto = r * u * V * (m - d);
+    out('neto', eur.format(neto)); out('techo', pct.format(m));
+    var pp = ((m - d) * 100).toLocaleString('es-ES', {maximumFractionDigits: 1});
+    out('holgura', (m - d >= 0 ? '+' : '') + pp + ' pp');
+    out('agua', n ? pct.format(agua / n) : '-'); out('n', n.toLocaleString('es-ES'));
+    var est = fig.querySelector('.estado');
+    est.classList.toggle('pierde', neto < 0); est.classList.toggle('gana', neto >= 0);
+    fig.querySelector('.barra .t').style.left = Math.min(m / 0.5, 1) * 100 + '%';
+    fig.querySelector('.barra .d').style.left = Math.min(d / 0.5, 1) * 100 + '%';
+  }
+  fig.querySelectorAll('select, input').forEach(function (e) { e.addEventListener('input', calc); });
+  calc();
+})();
+</script>

diff --git a/_proyectos/el-grupo-que-mas-compra.md b/_proyectos/el-grupo-que-mas-compra.md
@@ -4,8 +4,10 @@ resumen: "Un distribuidor daba la misma promoción a todos sus clientes B2B sin 
 disciplina: Datos
 anyo: 2026
 rol: "TFM del máster de Business Intelligence de UNIR, con Leticia del Pino"
-stack: [Python, R, Power BI]
+stack: [SQL, Python, Power BI]
 resultado: "Techo de descuento por grupo de clientes, reglas de una frase para ventas y un simulador de promociones"
+enlace: https://github.com/acamposla/promociones-b2b
+enlace_texto: "El código, con datos sintéticos, en GitHub"
 portada: /assets/img/previews/promociones-b2b.webp
 portada_en_ficha: false
 image:
@@ -59,8 +61,9 @@ el descuento sin crecer.
 
 ![Techo de descuento frente a peso en el volumen por segmento, datos sintéticos](/assets/img/promociones-b2b/techo-frente-a-volumen.webp)
 
-*Datos sintéticos e ilustrativos: conservan el orden entre segmentos del caso
-real, las cifras no son reales.*
+*Datos sintéticos, generados con el código del
+[repositorio del caso](https://github.com/acamposla/promociones-b2b): conservan el orden entre
+segmentos del caso real, no sus cifras.*
 
 Commodity, el grupo que más volumen sumaba, era el que tenía el techo de
 descuento más bajo. Con la misma promoción para todos, se perdía dinero justo
@@ -70,7 +73,10 @@ bastante más, quedaba margen sin usar.
 Entregamos el análisis y un simulador en Power BI con tres deslizadores:
 descuento, aceptación y crecimiento exigido. Al moverlos se ve el neto de la
 promoción en cada grupo, cuánto queda hasta el techo y qué parte de los
-clientes deja menos margen del que se le descuenta.
+clientes deja menos margen del que se le descuenta. El de Power BI lleva los
+datos reales dentro, así que aquí va rehecho sobre los datos sintéticos:
+
+{% include simulador-rappel.html %}
 
 Las promociones las decidía yo, y antes de salir de la empresa empecé a usar
 el techo de cada grupo como referencia al diseñarlas. Lo fui metiendo poco a
@@ -123,7 +129,8 @@ todos lo paga él.
   Calinski-Harabász tres, sin un codo claro en la inercia. Elegimos k=4 por
   criterio comercial.
 - **Reglas:** árbol de decisión de profundidad 3 entrenado sobre las etiquetas
-  de K-Means. Reproduce el grupo en el 87 % de los clientes. Es una medida
+  de K-Means. Reproduce el grupo en el 87 % de los clientes del caso real (en
+  los datos sintéticos del repositorio, el 93 %). Es una medida
   descriptiva y no valida el clustering, porque el árbol aprende de las mismas
   variables que formaron los grupos.
 - **Rentabilidad del rappel**, para un grupo:
@@ -137,6 +144,9 @@ todos lo paga él.
   neto es cero sea cual sea r: la tasa de respuesta decide cuánto se gana, y el
   descuento decide si se gana. Por eso el techo se calcula sin datos de
   campañas.
-- **Herramientas:** Python y R para el análisis, Power BI para el simulador.
+- **Herramientas:** SQL y Python para el análisis, Power BI para el simulador.
+- **Código:** [acamposla/promociones-b2b](https://github.com/acamposla/promociones-b2b), con
+  un generador de facturas sintéticas, la tabla de clientes en SQL, el notebook del caso
+  ejecutado, el simulador y dieciséis tests. Se instala y se ejecuta en unos minutos.
 
 </details>
